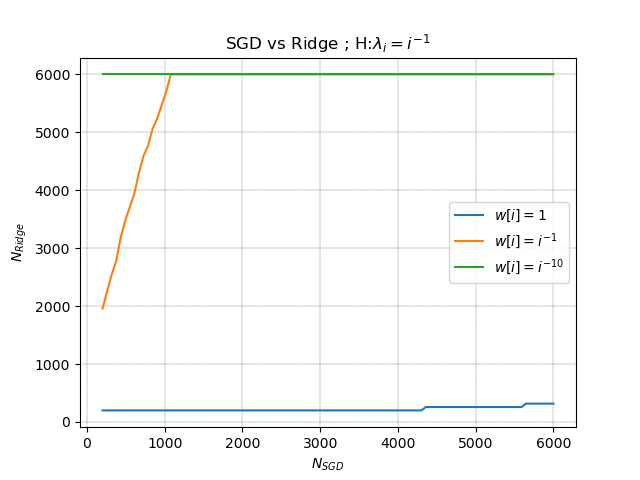
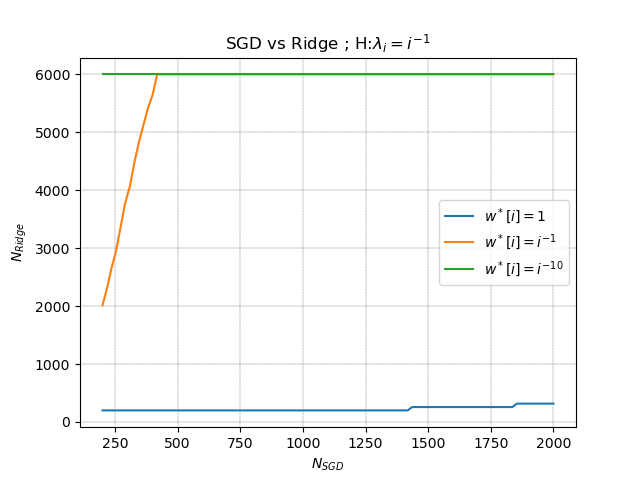
graph correction

diff --git a/benefits_study.py b/benefits_study.py
@@ -6,7 +6,7 @@ import torch
 from utils import *
 
 ### Parameters
-COMPUTE_DATA_PLOT = True
+COMPUTE_DATA_PLOT = False
 
 d = 200
 sigma2 = 1
@@ -28,7 +28,7 @@ SAVE_DATA_PLOT = 'data/data_plot.npy'
 SAVE_DIR_FIG = 'figures/'
 
 # Plots
-W_LABELS = [r'$w[i]=1$', r'$w[i]=i^{-1}$', r'$w[i]=i^{-10}$']
+W_LABELS = [r'$w^*[i]=1$', r'$w^*[i]=i^{-1}$', r'$w^*[i]=i^{-10}$']
 H_LABELS = [r'$\lambda_i=i^{-1}$', r'$\lambda_i=i^{-2}$']
 
 if COMPUTE_DATA_PLOT:
@@ -89,7 +89,7 @@ else:
 
 for i, which_h in enumerate(all_which_h):
     for j,which_w in enumerate(all_which_w):
-        plt.plot(n_ridge, y_plot[i,j,:], label=W_LABELS[j])
+        plt.plot(n_sgd, y_plot[i,j,:], label=W_LABELS[j])
     plt.grid(color='black', which="both", linestyle='--', linewidth=0.2)
     plt.legend()
     plt.xlabel(r'$N_{SGD}$')
